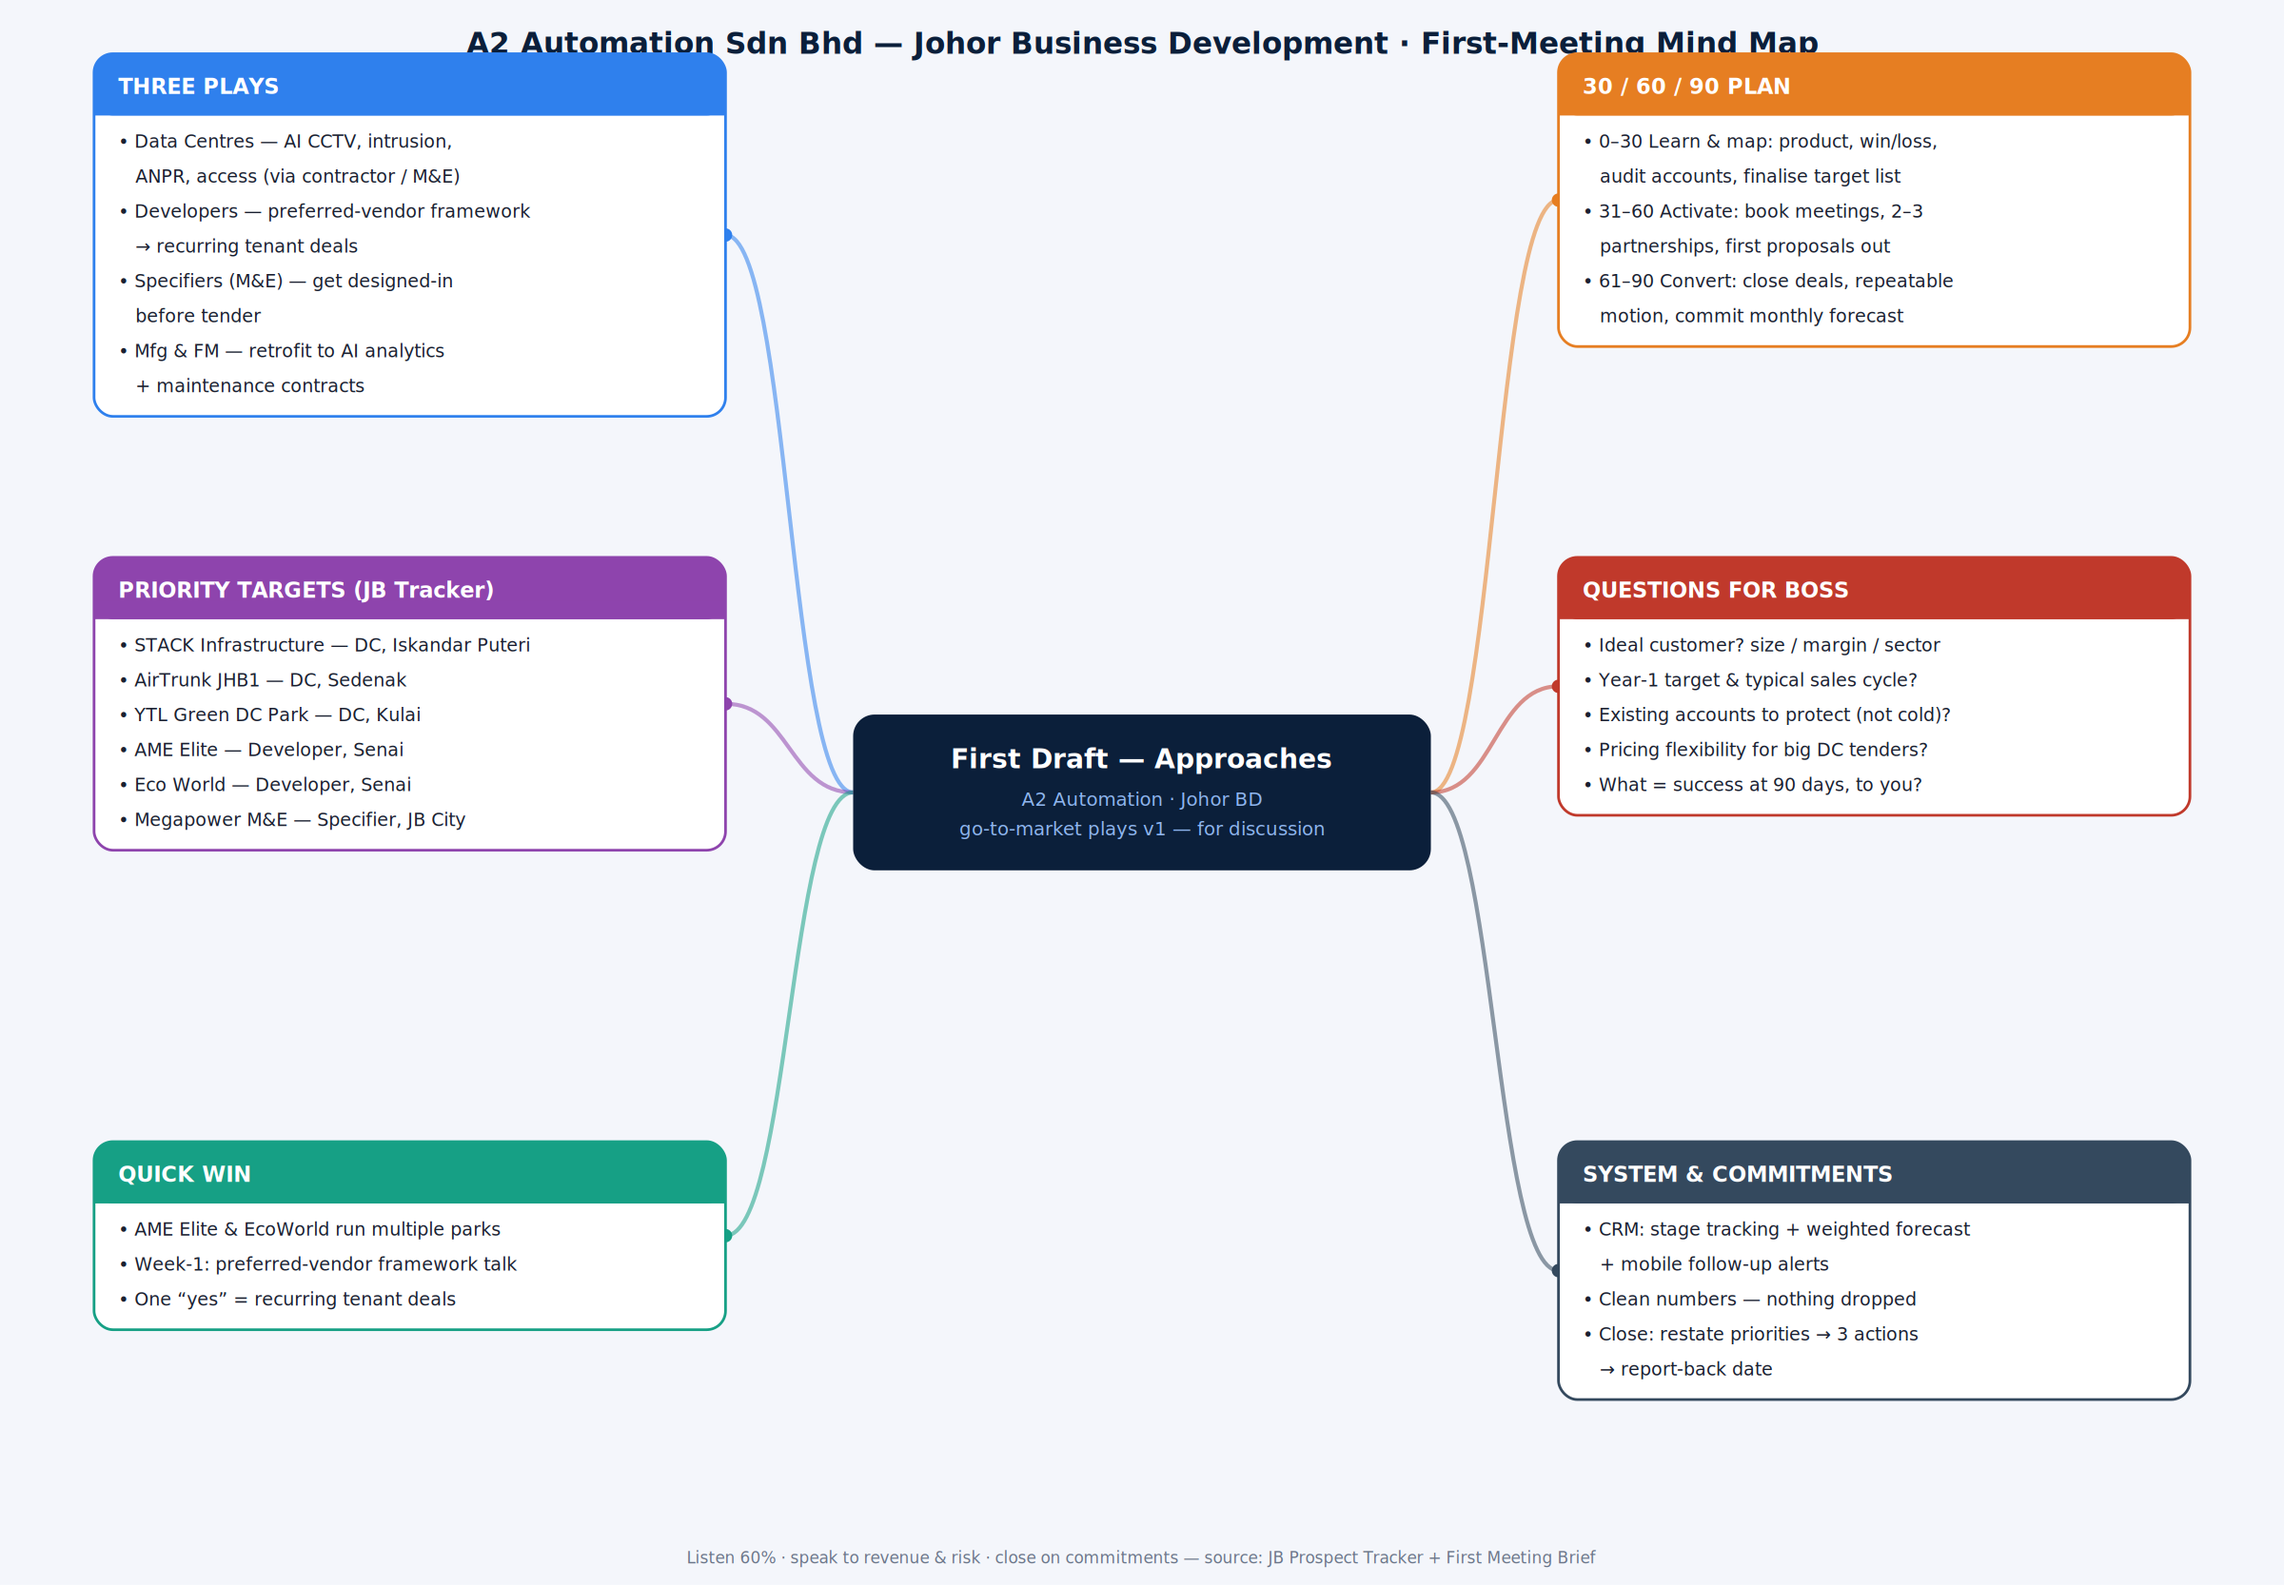
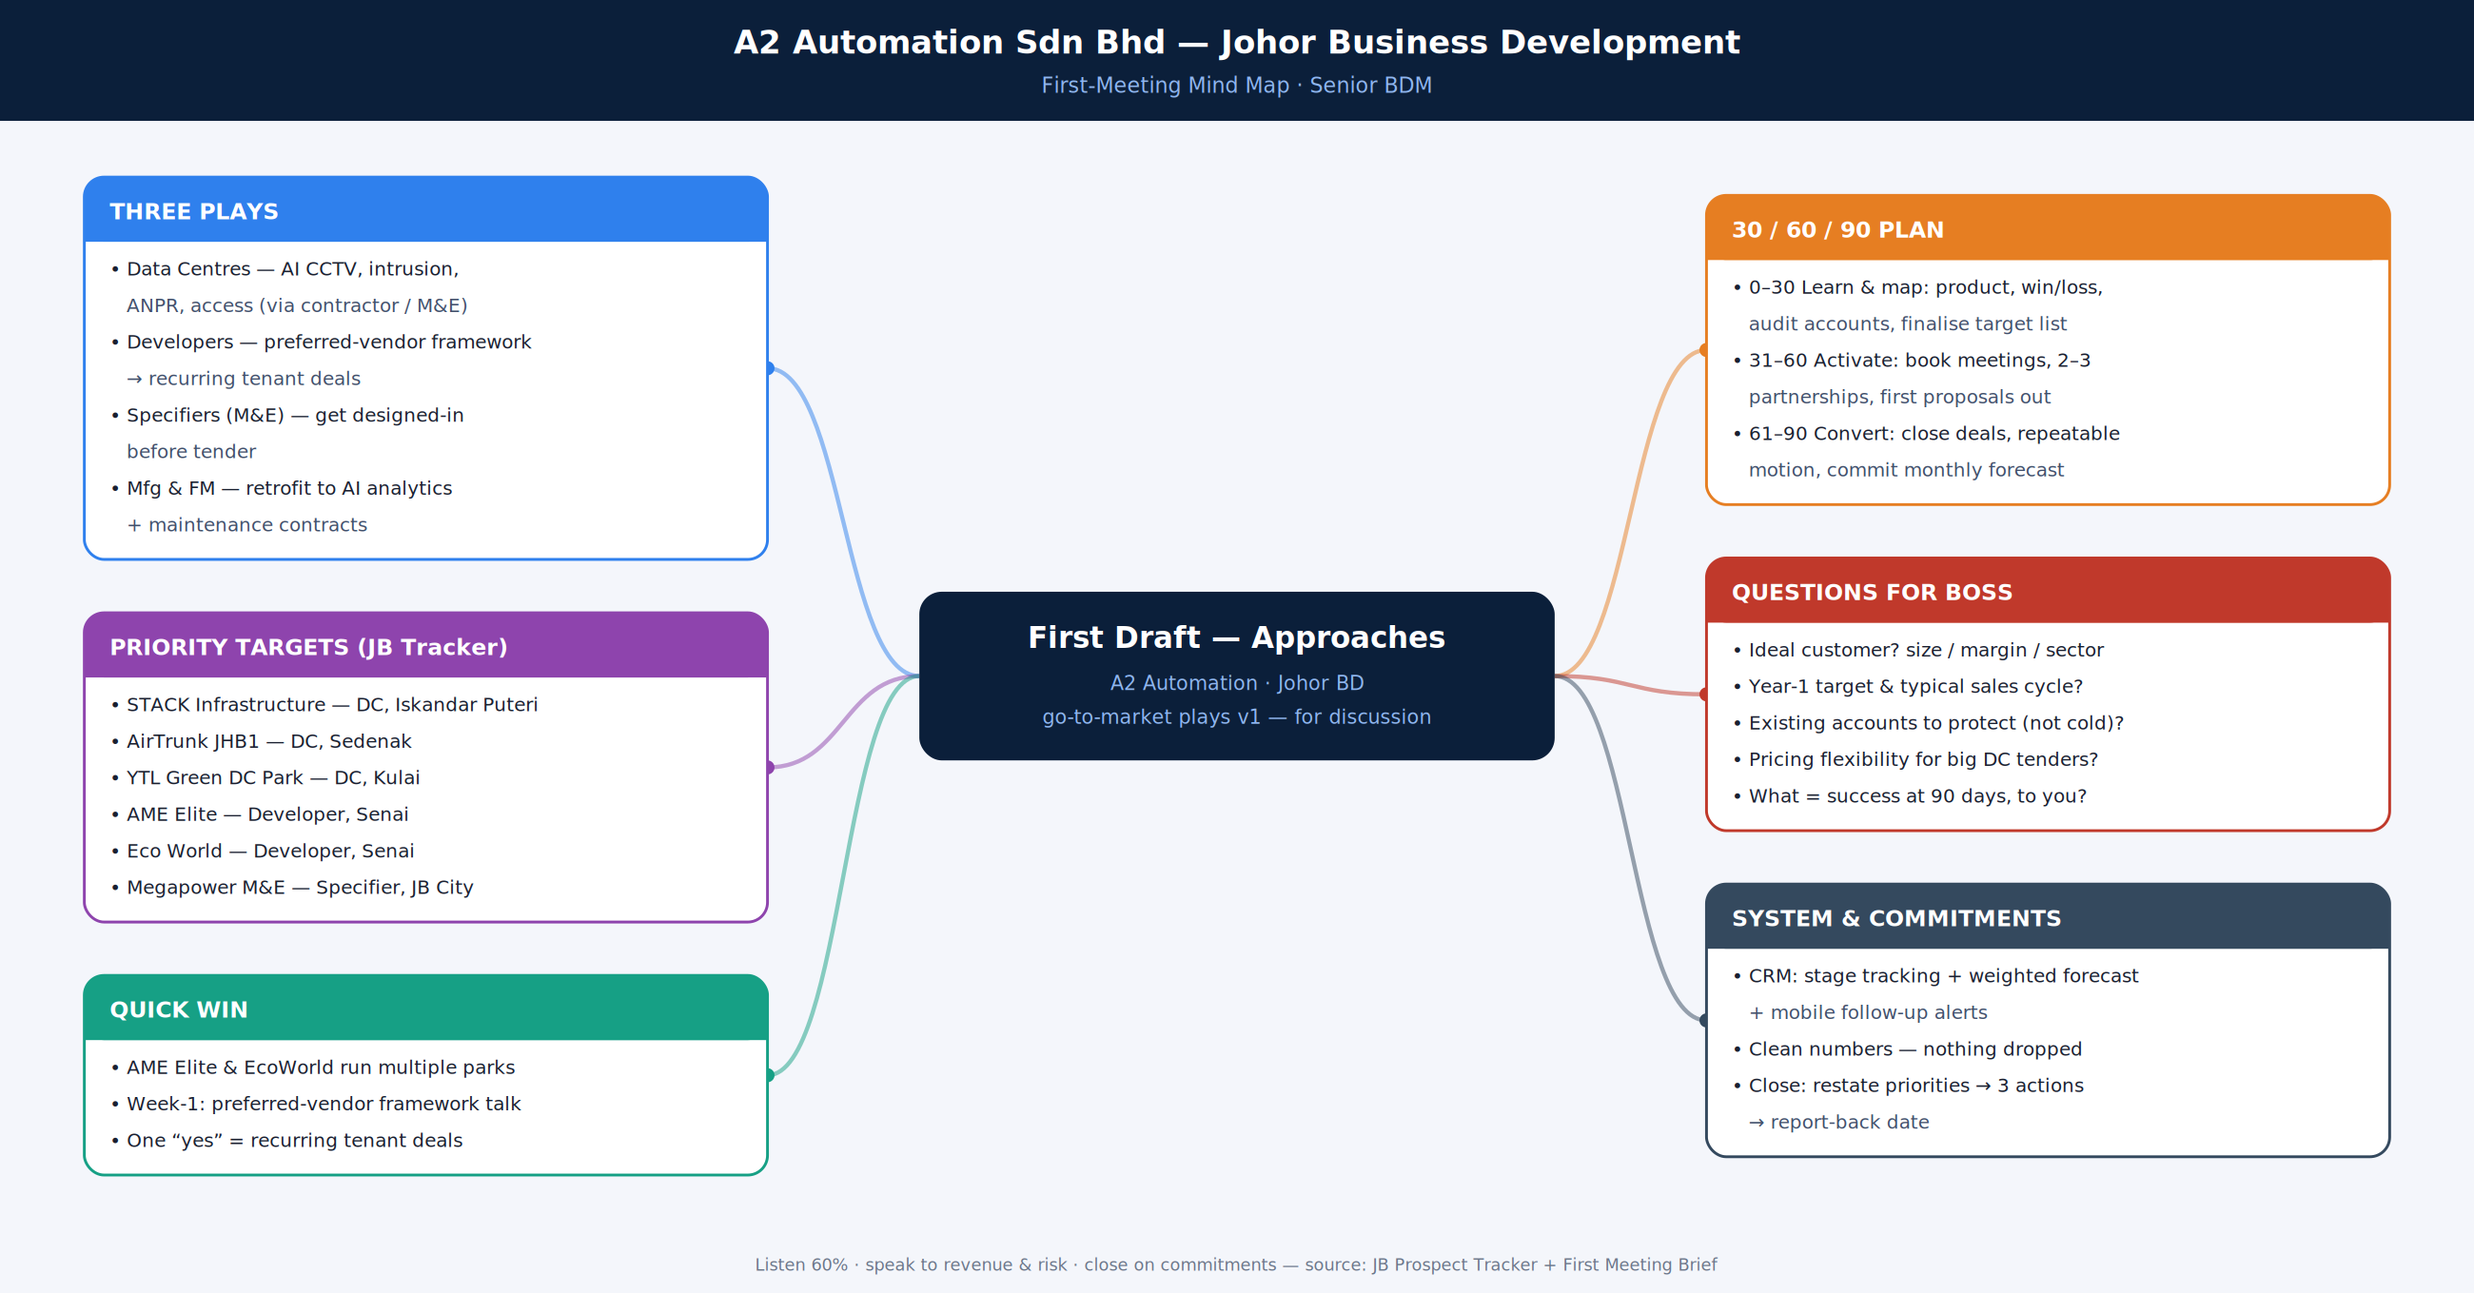
Rework mindmap layout: dynamic spacing, no overlaps
Dedicated title band, columns vertically centred with fixed gaps,
auto-sized page height so all boxes and text fit without overlapping.

diff --git a/sales-collateral/gen_mindmap.py b/sales-collateral/gen_mindmap.py
@@ -1,12 +1,23 @@
 # Generates a one-page landscape mindmap of the BDM first-meeting brief.
+# Layout is computed dynamically: a title band on top, three cards per side
+# stacked with fixed gaps and vertically centred, so nothing overlaps.
 import html
+import os
 
-W, H = 1700, 1180
-CENTER = (850, 590)
+W = 1760
+TITLE_BAND = 86
+FOOTER_BAND = 44
+CARD_W = 486
+LINE_H = 26
+HEAD_H = 46
+PAD_BOTTOM = 18
+GAP = 38          # vertical gap between cards in a column
+COL_LEFT_X = 60
+COL_RIGHT_X = W - 60 - CARD_W
 
 branches = [
-    # (title, color, side, y_top, lines)
-    ("THREE PLAYS", "#2f80ed", "L", 40, [
+    # (title, color, side, lines)
+    ("THREE PLAYS", "#2f80ed", "L", [
         "Data Centres — AI CCTV, intrusion,",
         "   ANPR, access (via contractor / M&E)",
         "Developers — preferred-vendor framework",
@@ -16,7 +27,7 @@ branches = [
         "Mfg & FM — retrofit to AI analytics",
         "   + maintenance contracts",
     ]),
-    ("PRIORITY TARGETS  (JB Tracker)", "#8e44ad", "L", 415, [
+    ("PRIORITY TARGETS  (JB Tracker)", "#8e44ad", "L", [
         "STACK Infrastructure — DC, Iskandar Puteri",
         "AirTrunk JHB1 — DC, Sedenak",
         "YTL Green DC Park — DC, Kulai",
@@ -24,12 +35,12 @@ branches = [
         "Eco World — Developer, Senai",
         "Megapower M&E — Specifier, JB City",
     ]),
-    ("QUICK WIN", "#16a085", "L", 850, [
+    ("QUICK WIN", "#16a085", "L", [
         "AME Elite & EcoWorld run multiple parks",
         "Week-1: preferred-vendor framework talk",
         "One “yes” = recurring tenant deals",
     ]),
-    ("30 / 60 / 90 PLAN", "#e67e22", "R", 40, [
+    ("30 / 60 / 90 PLAN", "#e67e22", "R", [
         "0–30  Learn & map: product, win/loss,",
         "   audit accounts, finalise target list",
         "31–60  Activate: book meetings, 2–3",
@@ -37,14 +48,14 @@ branches = [
         "61–90  Convert: close deals, repeatable",
         "   motion, commit monthly forecast",
     ]),
-    ("QUESTIONS FOR BOSS", "#c0392b", "R", 415, [
+    ("QUESTIONS FOR BOSS", "#c0392b", "R", [
         "Ideal customer? size / margin / sector",
         "Year-1 target & typical sales cycle?",
         "Existing accounts to protect (not cold)?",
         "Pricing flexibility for big DC tenders?",
         "What = success at 90 days, to you?",
     ]),
-    ("SYSTEM & COMMITMENTS", "#34495e", "R", 850, [
+    ("SYSTEM & COMMITMENTS", "#34495e", "R", [
         "CRM: stage tracking + weighted forecast",
         "   + mobile follow-up alerts",
         "Clean numbers — nothing dropped",
@@ -53,61 +64,108 @@ branches = [
     ]),
 ]
 
-CARD_W = 470
-LINE_H = 26
-HEAD_H = 46
-PAD = 16
 
-def esc(s): return html.escape(s)
+def card_height(lines):
+    return HEAD_H + len(lines) * LINE_H + PAD_BOTTOM
+
+
+def esc(s):
+    return html.escape(s)
+
+
+# --- compute per-column stacks ---
+left = [b for b in branches if b[2] == "L"]
+right = [b for b in branches if b[2] == "R"]
+
+
+def stack_total(col):
+    return sum(card_height(b[3]) for b in col) + GAP * (len(col) - 1)
+
+
+content_top = TITLE_BAND
+content_h_needed = max(stack_total(left), stack_total(right))
+# Page height: content + bands + a little breathing room.
+H = content_top + content_h_needed + FOOTER_BAND + 80
+available = H - content_top - FOOTER_BAND
+CENTER = (W / 2, content_top + available / 2)
+CN_W, CN_H = 452, 120
+
+
+def place(col, x):
+    total = stack_total(col)
+    y = content_top + (available - total) / 2
+    placed = []
+    for (title, color, side, lines) in col:
+        h = card_height(lines)
+        anchor_x = x + CARD_W if side == "L" else x
+        placed.append((title, color, side, x, y, h, lines, (anchor_x, y + h / 2)))
+        y += h + GAP
+    return placed
+
+
+cards = place(left, COL_LEFT_X) + place(right, COL_RIGHT_X)
 
 svg = []
-svg.append(f'<svg xmlns="http://www.w3.org/2000/svg" width="{W}" height="{H}" viewBox="0 0 {W} {H}" font-family="Segoe UI, Helvetica, Arial, sans-serif">')
+svg.append(
+    f'<svg xmlns="http://www.w3.org/2000/svg" width="{W}" height="{H}" '
+    f'viewBox="0 0 {W} {H}" font-family="Segoe UI, Helvetica, Arial, sans-serif">'
+)
 svg.append(f'<rect width="{W}" height="{H}" fill="#f4f6fb"/>')
-# title strip
-svg.append(f'<text x="{W/2}" y="40" text-anchor="middle" font-size="22" font-weight="700" fill="#0b1f3a">A2 Automation Sdn Bhd — Johor Business Development · First-Meeting Mind Map</text>')
 
-cards = []
-for (title, color, side, y_top, lines) in branches:
-    h = HEAD_H + len(lines)*LINE_H + PAD
-    if side == "L":
-        x = 70
-        anchor = (x + CARD_W, y_top + h/2)   # right edge -> center
-    else:
-        x = W - 70 - CARD_W
-        anchor = (x, y_top + h/2)            # left edge -> center
-    cards.append((title, color, side, x, y_top, h, lines, anchor))
+# title band (its own strip so it never overlaps cards)
+svg.append(f'<rect x="0" y="0" width="{W}" height="{TITLE_BAND}" fill="#0b1f3a"/>')
+svg.append(
+    f'<text x="{W/2}" y="38" text-anchor="middle" font-size="23" font-weight="700" '
+    f'fill="#ffffff">A2 Automation Sdn Bhd — Johor Business Development</text>'
+)
+svg.append(
+    f'<text x="{W/2}" y="66" text-anchor="middle" font-size="15" '
+    f'fill="#8fb6f0">First-Meeting Mind Map · Senior BDM</text>'
+)
 
-# connectors first (under cards)
 cx, cy = CENTER
+# connectors (under cards)
 for (title, color, side, x, y_top, h, lines, anchor) in cards:
     ax, ay = anchor
-    edge_x = cx - 215 if side == "L" else cx + 215
-    mx = (edge_x + ax)/2
-    svg.append(f'<path d="M {ax} {ay} C {mx} {ay}, {mx} {cy}, {edge_x} {cy}" stroke="{color}" stroke-width="3" fill="none" opacity="0.55"/>')
-    svg.append(f'<circle cx="{ax}" cy="{ay}" r="5" fill="{color}"/>')
+    edge_x = cx - CN_W / 2 if side == "L" else cx + CN_W / 2
+    mx = (edge_x + ax) / 2
+    svg.append(
+        f'<path d="M {ax:.0f} {ay:.0f} C {mx:.0f} {ay:.0f}, {mx:.0f} {cy:.0f}, '
+        f'{edge_x:.0f} {cy:.0f}" stroke="{color}" stroke-width="3" fill="none" opacity="0.5"/>'
+    )
+    svg.append(f'<circle cx="{ax:.0f}" cy="{ay:.0f}" r="5" fill="{color}"/>')
 
 # center node
-svg.append(f'<rect x="{cx-215}" y="{cy-58}" width="430" height="116" rx="16" fill="#0b1f3a"/>')
-svg.append(f'<text x="{cx}" y="{cy-18}" text-anchor="middle" font-size="20" font-weight="700" fill="#ffffff">First Draft — Approaches</text>')
-svg.append(f'<text x="{cx}" y="{cy+10}" text-anchor="middle" font-size="14" fill="#8fb6f0">A2 Automation · Johor BD</text>')
-svg.append(f'<text x="{cx}" y="{cy+32}" text-anchor="middle" font-size="14" fill="#8fb6f0">go-to-market plays v1 — for discussion</text>')
+svg.append(
+    f'<rect x="{cx-CN_W/2:.0f}" y="{cy-CN_H/2:.0f}" width="{CN_W}" height="{CN_H}" rx="16" fill="#0b1f3a"/>'
+)
+svg.append(f'<text x="{cx:.0f}" y="{cy-20:.0f}" text-anchor="middle" font-size="21" font-weight="700" fill="#ffffff">First Draft — Approaches</text>')
+svg.append(f'<text x="{cx:.0f}" y="{cy+10:.0f}" text-anchor="middle" font-size="14" fill="#8fb6f0">A2 Automation · Johor BD</text>')
+svg.append(f'<text x="{cx:.0f}" y="{cy+34:.0f}" text-anchor="middle" font-size="14" fill="#8fb6f0">go-to-market plays v1 — for discussion</text>')
 
 # cards
 for (title, color, side, x, y_top, h, lines, anchor) in cards:
-    svg.append(f'<rect x="{x}" y="{y_top}" width="{CARD_W}" height="{h}" rx="14" fill="#ffffff" stroke="{color}" stroke-width="2"/>')
-    svg.append(f'<rect x="{x}" y="{y_top}" width="{CARD_W}" height="{HEAD_H}" rx="14" fill="{color}"/>')
-    svg.append(f'<rect x="{x}" y="{y_top+HEAD_H-14}" width="{CARD_W}" height="14" fill="{color}"/>')
-    svg.append(f'<text x="{x+18}" y="{y_top+30}" font-size="16" font-weight="700" fill="#ffffff">{esc(title)}</text>')
+    svg.append(f'<rect x="{x}" y="{y_top:.0f}" width="{CARD_W}" height="{h}" rx="14" fill="#ffffff" stroke="{color}" stroke-width="2"/>')
+    svg.append(f'<rect x="{x}" y="{y_top:.0f}" width="{CARD_W}" height="{HEAD_H}" rx="14" fill="{color}"/>')
+    svg.append(f'<rect x="{x}" y="{y_top+HEAD_H-14:.0f}" width="{CARD_W}" height="14" fill="{color}"/>')
+    svg.append(f'<text x="{x+18}" y="{y_top+30:.0f}" font-size="16" font-weight="700" fill="#ffffff">{esc(title)}</text>')
     ty = y_top + HEAD_H + 24
     for ln in lines:
-        bullet = "" if ln.startswith("   ") else "• "
-        svg.append(f'<text x="{x+18}" y="{ty}" font-size="13.5" fill="#1a2030">{esc(bullet+ln.strip()) if bullet else "&#160;&#160;&#160;"+esc(ln.strip())}</text>')
+        is_cont = ln.startswith("   ")
+        text = ln.strip()
+        if is_cont:
+            svg.append(f'<text x="{x+30}" y="{ty:.0f}" font-size="13.5" fill="#41506b">{esc(text)}</text>')
+        else:
+            svg.append(f'<text x="{x+18}" y="{ty:.0f}" font-size="13.5" fill="#1a2030">&#8226; {esc(text)}</text>')
         ty += LINE_H
 
-svg.append(f'<text x="{W/2}" y="{H-16}" text-anchor="middle" font-size="12" fill="#6b7689">Listen 60% · speak to revenue &amp; risk · close on commitments — source: JB Prospect Tracker + First Meeting Brief</text>')
+svg.append(
+    f'<text x="{W/2}" y="{H-16}" text-anchor="middle" font-size="12" fill="#6b7689">'
+    f'Listen 60% · speak to revenue &amp; risk · close on commitments — '
+    f'source: JB Prospect Tracker + First Meeting Brief</text>'
+)
 svg.append('</svg>')
 
-import os
 _out = os.path.join(os.path.dirname(os.path.abspath(__file__)), "bdm_mindmap.svg")
 open(_out, "w").write("\n".join(svg))
-print("SVG written")
+print(f"SVG written: {W}x{H}")
